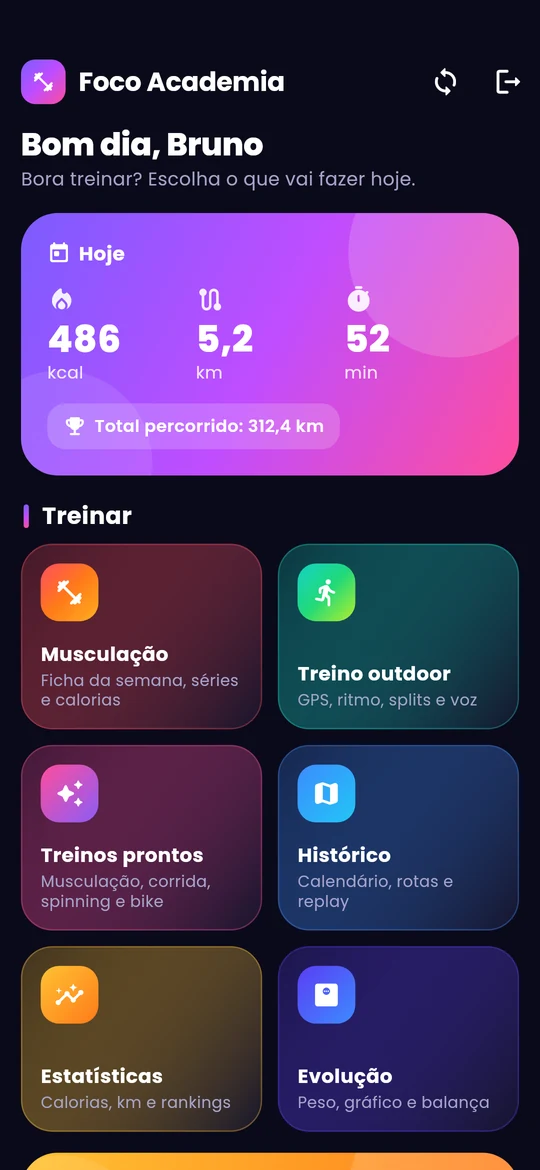
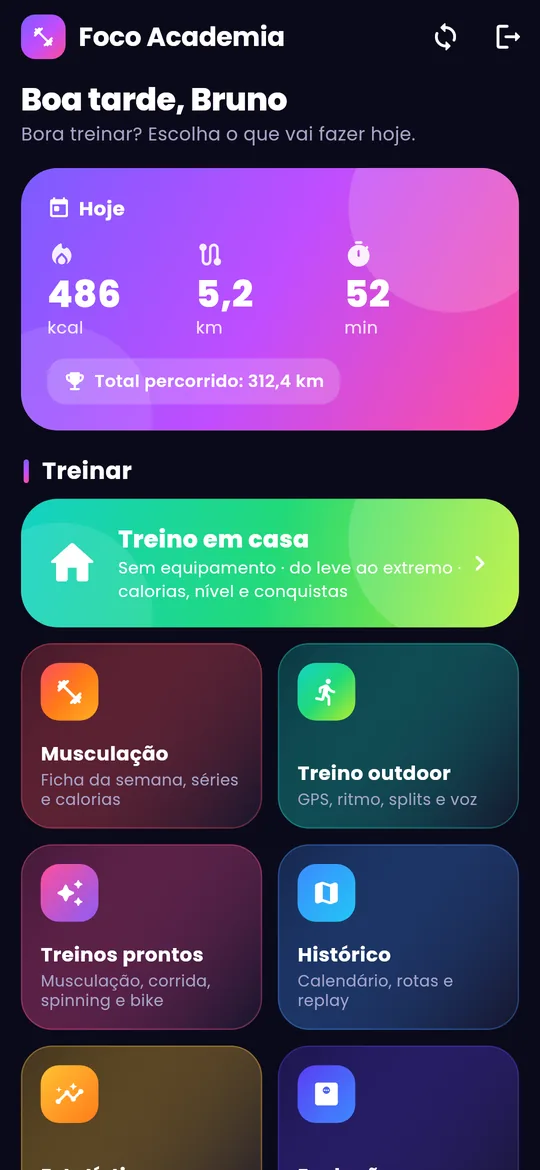
feat(fitlife): treino em casa, gamificacao e telas novas na landing do Foco Academia
- Nova galeria "Treino em casa" com 4 telas do app (lista, previa, exercicio, resumo)
- Tela de inicio atualizada (card Treino em casa) e hero com a tela do exercicio
- Textos da landing, vitrines e cards: treino em casa, calorias, nivel e conquistas,
  voz e bipes no treino; destaque "4 niveis" no lugar de "12 treinos prontos"

Claude-Session: https://claude.ai/code/session_0113qfSN81Eb7hAqRENF6wNo

diff --git a/src/lib/product-landings.ts b/src/lib/product-landings.ts
@@ -74,16 +74,16 @@ export const PRODUCT_LANDINGS: Record<'fitlife' | 'rotas' | 'estoque', ProductLa
     badge: 'App de treinos · academias · personais',
     headline: 'Treino colorido no celular. Academia na palma da mão.',
     subheadline:
-      'O Foco Academia é um app só para quem treina e para quem ensina. O aluno segue a ficha, marca as séries, faz corrida com GPS e escolhe treinos prontos. A academia e o personal acompanham alunos, notas, recados e gráficos — e convidam alunos com um link.',
+      'O Foco Academia é um app só para quem treina e para quem ensina. O aluno segue a ficha, marca as séries, treina em casa sem equipamento, faz corrida com GPS e escolhe treinos prontos. A academia e o personal acompanham alunos, notas, recados e gráficos — e convidam alunos com um link.',
     coverImage: '/portfolio/fitlife/app-inicio.webp',
     highlights: [
       { value: '1 app', label: 'aluno, personal e academia' },
-      { value: '12', label: 'treinos prontos por nível' },
+      { value: '4 níveis', label: 'de treino em casa, do leve ao extremo' },
       { value: 'GPS', label: 'corrida e bike' },
     ],
     heroDesktop: '/portfolio/fitlife/web-aluno-treinos.webp',
     heroDesktopUrl: 'academia.focodev.com.br',
-    heroPhones: ['/portfolio/fitlife/app-inicio.webp', '/portfolio/fitlife/app-painel-academia.webp'],
+    heroPhones: ['/portfolio/fitlife/app-inicio.webp', '/portfolio/fitlife/app-treino-em-casa-exercicio.webp'],
     heroChips: [
       { icon: 'check', label: 'Agachamento livre', value: 'Série 4 de 4 concluída' },
       { icon: 'chart', label: 'Academia Força Total', value: '71% dos alunos treinaram na semana' },
@@ -97,7 +97,7 @@ export const PRODUCT_LANDINGS: Record<'fitlife' | 'rotas' | 'estoque', ProductLa
       'Fichas em foto, planilhas e mensagens perdidas geram retrabalho, aluno desmotivado e instrutor sem tempo. Sem números, a academia não sabe quem está treinando, quem sumiu e o que os alunos acham.',
     solutionTitle: 'Uma plataforma completa para quem treina e quem ensina',
     solutionText:
-      'O aluno abre o app e já sabe o que fazer: ficha do dia, séries para marcar, cronômetro e calorias. O instrutor monta a ficha pelo celular. A academia vê o painel com engajamento, notas, recados e ranking da equipe. Para entrar, basta um link de convite.',
+      'O aluno abre o app e já sabe o que fazer: ficha do dia, séries para marcar, cronômetro e calorias — ou um treino em casa, com cada exercício desenhado, tempo certo e conquistas a cada treino. O instrutor monta a ficha pelo celular. A academia vê o painel com engajamento, notas, recados e ranking da equipe. Para entrar, basta um link de convite.',
     audiencesSubtitle:
       'Academia, personal autônomo ou quem treina sozinho — cada um escolhe o perfil ao criar a conta.',
     audiences: [
@@ -123,6 +123,7 @@ export const PRODUCT_LANDINGS: Record<'fitlife' | 'rotas' | 'estoque', ProductLa
         title: 'Quem treina sozinho',
         description: 'Crie a conta grátis e treine do seu jeito, sem precisar de academia.',
         points: [
+          'Treino em casa sem equipamento, do leve ao extremo',
           'Treinos prontos de musculação, corrida, spinning e bike',
           'Monte seus próprios treinos com 70+ exercícios',
           'Corrida com GPS, calorias, histórico e evolução do peso',
@@ -133,6 +134,21 @@ export const PRODUCT_LANDINGS: Record<'fitlife' | 'rotas' | 'estoque', ProductLa
       {
         title: 'Ficha da semana e séries',
         description: 'Cada dia com sua cor, exercícios, séries e repetições. O aluno marca série por série e vê o progresso e as calorias.',
+      },
+      {
+        title: 'Treino em casa sem equipamento',
+        description:
+          '12 treinos do leve ao extremo, com cada exercício desenhado, cronômetro, descanso e Tabata. Dá para treinar sem ir à academia.',
+      },
+      {
+        title: 'Calorias, nível e conquistas',
+        description:
+          'Calorias pelo peso e pela intensidade, XP, nível, sequência de dias, meta da semana e medalhas a cada treino.',
+      },
+      {
+        title: 'Voz e bipes no treino',
+        description:
+          'Contagem regressiva em cada exercício, aviso do próximo no descanso e a tela sempre ligada durante o treino.',
       },
       {
         title: 'Treinos prontos por nível',
@@ -160,7 +176,9 @@ export const PRODUCT_LANDINGS: Record<'fitlife' | 'rotas' | 'estoque', ProductLa
       'Aluno sabe o que fazer e marca série a série no celular',
       'Academia vê engajamento, notas e reclamações em números',
       'Convite por link: o aluno entra sem digitar código nenhum',
-      'Treinos prontos para quem treina sozinho',
+      'Treinos prontos e treino em casa para quem treina sozinho',
+      'Cada exercício desenhado, com cronômetro e descanso',
+      'Calorias, nível e conquistas que dão vontade de voltar amanhã',
       'Funciona offline e sincroniza depois',
     ],
     galleries: [
@@ -170,12 +188,27 @@ export const PRODUCT_LANDINGS: Record<'fitlife' | 'rotas' | 'estoque', ProductLa
         frame: 'phone',
         alwaysDefaults: true,
         title: 'App do aluno',
-        description: 'Telas reais do app: início com o resumo do dia, ficha da semana, treino com séries e treinos prontos.',
+        description: 'Telas reais do app: início com o resumo do dia e o treino em casa, ficha da semana, treino com séries e treinos prontos.',
         defaultImages: [
           { url: '/portfolio/fitlife/app-inicio.webp', alt: 'Início — resumo do dia e atalhos coloridos' },
           { url: '/portfolio/fitlife/app-ficha.webp', alt: 'Ficha da semana — cada dia com sua cor e status' },
           { url: '/portfolio/fitlife/app-treino-series.webp', alt: 'Treino do dia — cronômetro, calorias e séries marcadas' },
           { url: '/portfolio/fitlife/app-treinos-prontos.webp', alt: 'Treinos prontos — musculação, corrida, spinning e bike' },
+        ],
+      },
+      {
+        id: 'casa',
+        tag: 'casa',
+        frame: 'phone',
+        alwaysDefaults: true,
+        title: 'Treino em casa',
+        description:
+          'Sem equipamento e do leve ao extremo: escolha a intensidade, veja o exercício desenhado, siga o cronômetro e ganhe XP e conquistas.',
+        defaultImages: [
+          { url: '/portfolio/fitlife/app-treino-em-casa.webp', alt: 'Treino em casa — nível, meta da semana e treinos por intensidade' },
+          { url: '/portfolio/fitlife/app-treino-em-casa-previa.webp', alt: 'Prévia do treino — exercícios desenhados com tempo e descanso' },
+          { url: '/portfolio/fitlife/app-treino-em-casa-exercicio.webp', alt: 'Exercício em andamento — desenho animado e cronômetro' },
+          { url: '/portfolio/fitlife/app-treino-em-casa-resumo.webp', alt: 'Resumo do treino — calorias, XP, sequência e nova conquista' },
         ],
       },
       {

diff --git a/src/lib/system-links.ts b/src/lib/system-links.ts
@@ -27,7 +27,7 @@ export const SYSTEM_LINKS = {
   },
   academia: {
     label: 'Foco Academia',
-    description: 'App de treinos com painel da academia, treinos prontos, GPS e convite de alunos por link.',
+    description: 'App de treinos com treino em casa, painel da academia, treinos prontos, GPS e convite de alunos por link.',
     href: '/fitlife',
   },
 } as const satisfies Record<string, SystemLink>
@@ -61,11 +61,11 @@ export const SHOWCASE_PROJECTS = {
   fitlife: {
     label: 'Foco Academia',
     description:
-      'App de treinos para alunos, personais e academias: ficha da semana, treinos prontos, corrida com GPS, painel da academia com gráficos e convite por link.',
+      'App de treinos para alunos, personais e academias: treino em casa com exercícios desenhados, ficha da semana, treinos prontos, corrida com GPS, painel da academia com gráficos e convite por link.',
     badge: 'App + painéis web',
     tech: 'Mobile + Web',
     image: '/portfolio/fitlife/app-inicio.webp',
-    features: ['Ficha, séries e treinos prontos', 'Painel da academia com gráficos', 'Convite de alunos por link'],
+    features: ['Treino em casa, do leve ao extremo', 'Ficha, séries e treinos prontos', 'Painel da academia com gráficos'],
     href: '/fitlife',
   },
 } as const

diff --git a/src/lib/site-content.ts b/src/lib/site-content.ts
@@ -64,7 +64,7 @@ export const DEFAULT_PROJECTS = [
     id: 'proj-academia',
     slug: 'foco-academia',
     title: 'Foco Academia',
-    description: 'App de treinos para alunos, personais e academias: ficha, treinos prontos, GPS, painel com gráficos e convite por link.',
+    description: 'App de treinos para alunos, personais e academias: treino em casa, ficha, treinos prontos, GPS, painel com gráficos e convite por link.',
     coverImageUrl: '/portfolio/fitlife/app-inicio.webp',
   },
   {
